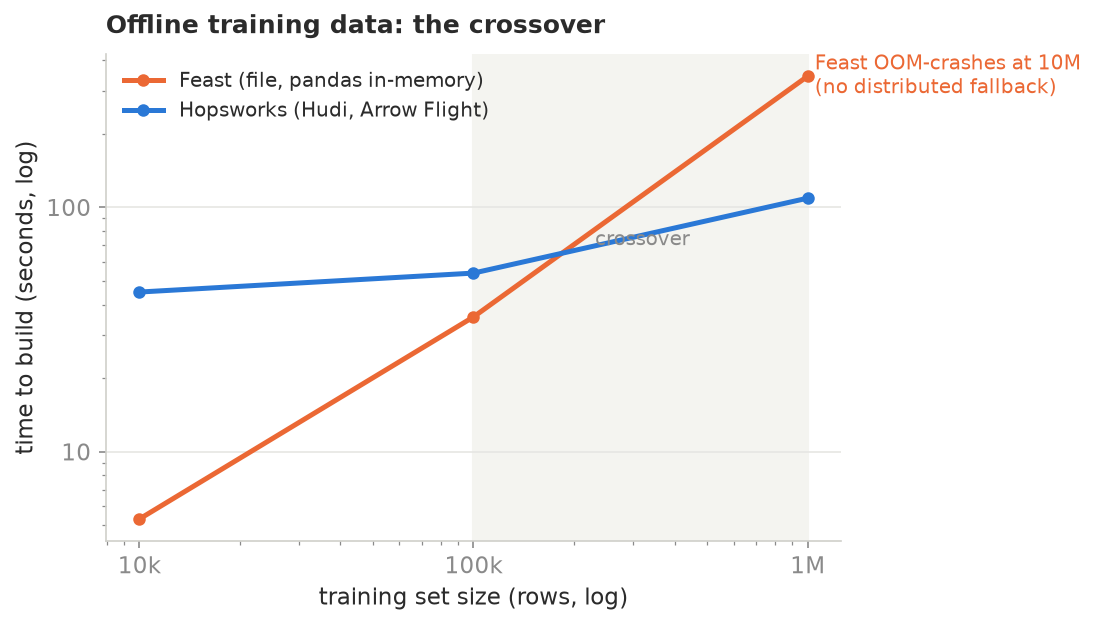
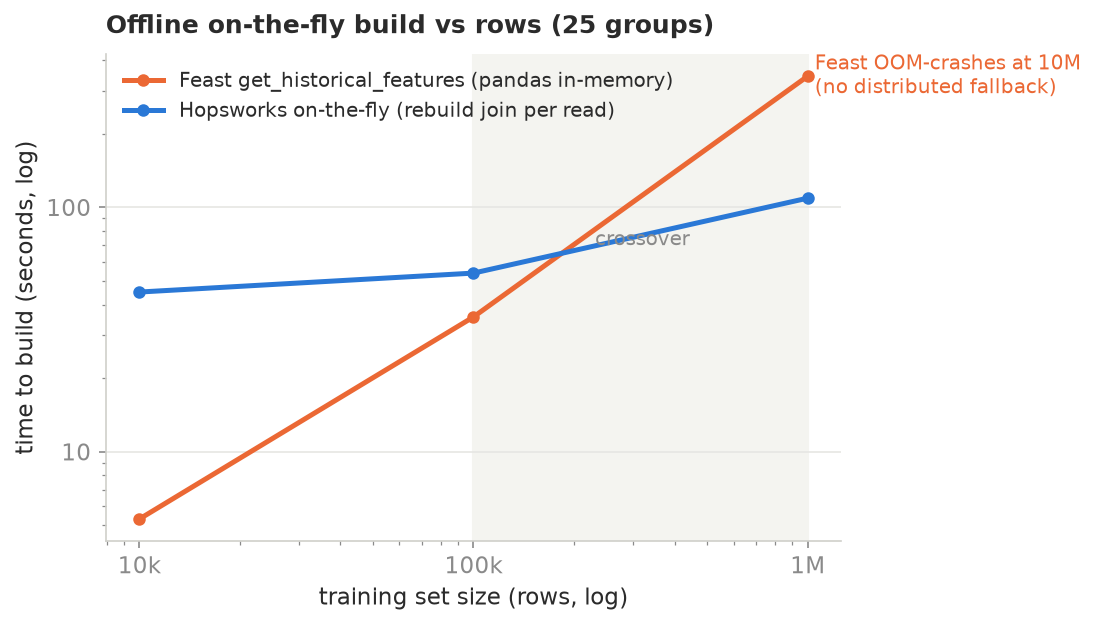
benchmark: rewrite offline axis around the correct APIs and two read patterns
The old axis measured only on-the-fly retrieval, and with the wrong Hopsworks API
(get_batch_data, a time-range batch-inference read with no PIT join) standing in for
'training data'. Re-measured same-machine on dev0 (DELTA groups, Query Service):

- on-the-fly build (both stores rebuild the join): training_data 51s ~= get_batch_data
  45s at 10k/25 groups, so the small-N loss is real, not an API artifact. Feast wins
  small (5.3s), Hopsworks wins at scale (3.2x at 1M, only one to survive 10M). The
  on-the-fly floor is join-width bound (3s->52s, 1->25 groups), server-side query
  construction, reproduced on dev0 and eu-west and with online_enabled on/off.
- materialize once, read many (the real training loop): create_training_data 61s once,
  then get_training_data reads the versioned dataset in 0.75s, width-independent. Feast
  has no materialized offline read (5.3s every time). Crossover ~13 reads.

- new img/offline_materialized.png; offline_scale relabeled on-the-fly
- offline/RESULTS.md rewritten; methods_10k.jsonl added
- scorecard + honest-read: split on-the-fly, Hopsworks for training loops

Changed region(s): [[0.2174, 0.0912, 0.621, 0.2128], [0.1863, 0.0, 0.6521, 0.0608]]

diff --git a/benchmark/plot.py b/benchmark/plot.py
@@ -171,17 +171,39 @@ ax.annotate("25 groups =\nfeast-benchmarks design", xy=(25, 52.04), xytext=(15, 
 style(ax); ax.legend(frameon=False, fontsize=9.5, loc="upper left")
 save(fig, "offline_join_width.png")
 
-# --- Offline crossover (seconds vs rows, log-log). Source offline/RESULTS.md. ---
+# --- Offline materialize-once, read-many (10k, 25 groups). Source
+# offline/results/methods_10k.jsonl. Hopsworks materializes a versioned training
+# dataset once, then reads it in 0.75s (join baked in, width-independent). Feast has
+# no materialized offline read: get_historical_features rebuilds the join every read. ---
+fig, ax = plt.subplots(figsize=(7.5, 4.4), dpi=150)
+reads = list(range(0, 26))
+hops_mat, hops_read, feast_read = 60.62, 0.75, 5.3
+hops_cum = [hops_mat + hops_read * n for n in reads]
+feast_cum = [feast_read * n for n in reads]
+ax.plot(reads, hops_cum, color=HOPS, label="Hopsworks: materialize once (61s) + 0.75s/read", **MARK)
+ax.plot(reads, feast_cum, color=FEAST, label="Feast: rebuild join every read (5.3s/read)", **MARK)
+cross = hops_mat / (feast_read - hops_read)
+ax.axvline(cross, color=MUT, lw=1, ls=":", zorder=1)
+ax.set_ylim(bottom=0); ax.set_xlim(left=0)
+ax.set_title("Offline read-many: materialized dataset vs rebuilding (10k, 25 groups)", fontweight="bold", fontsize=12, pad=10, loc="left")
+ax.set_xlabel("number of reads of the same training set"); ax.set_ylabel("cumulative time (seconds)")
+ax.annotate(f"crossover ~{cross:.0f} reads", xy=(cross, feast_read * cross), xytext=(cross + 0.6, feast_read * cross - 22), ha="left", color=MUT, fontsize=9.5)
+ax.annotate("0.75s/read,\nwidth-independent", xy=(25, hops_cum[-1]), xytext=(24.5, hops_cum[-1] + 12), ha="right", va="bottom", color=HOPS, fontweight="bold", fontsize=9.5)
+style(ax); ax.legend(frameon=False, fontsize=9, loc="upper left")
+save(fig, "offline_materialized.png")
+
+# --- Offline crossover (on-the-fly build, seconds vs rows, log-log). Source
+# offline/RESULTS.md. Both stores rebuild the join on the fly here. ---
 # Hopsworks 10k is its distributed-query overhead floor (~45s), not a clean win.
 fig, ax = plt.subplots(figsize=(7.5, 4.4), dpi=150)
 rows = [1e4, 1e5, 1e6]
-ax.plot(rows, [5.3, 35.6, 344], color=FEAST, label="Feast (file, pandas in-memory)", **MARK)
-ax.plot(rows, [45, 53.8, 109], color=HOPS, label="Hopsworks (Hudi, Arrow Flight)", **MARK)
+ax.plot(rows, [5.3, 35.6, 344], color=FEAST, label="Feast get_historical_features (pandas in-memory)", **MARK)
+ax.plot(rows, [45, 53.8, 109], color=HOPS, label="Hopsworks on-the-fly (rebuild join per read)", **MARK)
 ax.set_xscale("log"); ax.set_yscale("log"); ax.set_xticks(rows)
 ax.get_xaxis().set_major_formatter(FuncFormatter(lambda v, _: {1e4: "10k", 1e5: "100k", 1e6: "1M"}.get(v, f"{v:g}")))
 ax.get_yaxis().set_major_formatter(FuncFormatter(lambda v, _: f"{int(v)}"))
 ax.axvspan(1e5, 1e6, color="#f4f4f0", zorder=0)
-ax.set_title("Offline training data: the crossover", fontweight="bold", fontsize=12, pad=10, loc="left")
+ax.set_title("Offline on-the-fly build vs rows (25 groups)", fontweight="bold", fontsize=12, pad=10, loc="left")
 ax.set_xlabel("training set size (rows, log)"); ax.set_ylabel("time to build (seconds, log)")
 ax.annotate("crossover", xy=(3.2e5, 70), color=MUT, fontsize=9.5, ha="center")
 ax.annotate("Feast OOM-crashes at 10M\n(no distributed fallback)", xy=(1e6, 344),
@@ -189,4 +211,4 @@ ax.annotate("Feast OOM-crashes at 10M\n(no distributed fallback)", xy=(1e6, 344)
 style(ax); ax.legend(frameon=False, fontsize=9.5, loc="upper left")
 save(fig, "offline_scale.png")
 
-print("wrote img/{online_latency,tail_latency,throughput,offline_join_width,offline_scale}.png")
+print("wrote img/{online_latency,tail_latency,throughput,offline_join_width,offline_materialized,offline_scale}.png")

diff --git a/benchmark/offline/RESULTS.md b/benchmark/offline/RESULTS.md
@@ -1,54 +1,58 @@
-# Results: offline (batch / training data) retrieval
+# Results: offline (training data) retrieval
 
-Time to generate a training dataset from the offline store: N unique entities, 250 features, point-in-time correct join across 25 feature groups. Feast `get_historical_features` (file offline store, pandas join) vs Hopsworks `get_batch_data` (Hudi via Arrow Flight). Unique entities, so both return exactly N rows, no join fan-out. Raw data in `results/batch_*.jsonl`.
+Building a training dataset: N unique entities, 250 features, point-in-time correct join across 25 feature groups. Feast `get_historical_features` (file offline store, pandas join) vs Hopsworks over the Hopsworks Query Service (DELTA feature groups, Arrow Flight / DuckDB). Unique entities, so both return exactly N rows, no join fan-out. Same machine (dev0), measured warm.
 
-## The crossover
+## Two operations, not one
 
-| rows | Feast | Hopsworks | winner |
-|---|---|---|---|
-| 10k | 5.3 s | ~45 s (overhead floor) | Feast |
-| 100k | 35.6 s | 53.8 s | Feast (slight) |
-| 1M | 344 s | 109 s | Hopsworks 3.2x |
-| 10M | OOM crash | Spark path (see below) | Hopsworks |
+Offline retrieval has two distinct patterns, and they have very different costs. The first version of this axis measured only the first one, with the wrong Hopsworks API, and that undersold the store on the pattern that matters for training.
 
-Feast scales linearly: 5.3, 36, 344 seconds, a clean 10x per decade of rows. Hopsworks scales sub-linearly: a fixed distributed-query overhead of roughly 45 to 55 s dominates at small scale, then the engine barely moves (54 to 109 s from 100k to 1M). The lines cross between 100k and 1M.
+- **On-the-fly build**: compute the point-in-time join and return the rows now. Feast `get_historical_features`; Hopsworks `training_data()` (or the older `get_batch_data`, which is actually a batch-inference time-range read and does not do a PIT join). Both stores rebuild the join on every call.
+- **Materialize once, read many**: compute the join once into a versioned dataset, then read it back cheaply. Hopsworks `create_training_data` then `get_training_data`. Feast has no native offline equivalent, `get_historical_features` rebuilds the join every read.
 
-The honest read: below about 100k rows, Feast's in-memory pandas join wins because it has no distributed-query overhead. Above it, Hopsworks pulls away and the gap widens without bound. Production training sets are millions of rows, which is the right of the crossover.
+Measured on dev0 at 10k rows, 25 groups:
 
-## The small-scale floor is join-width bound, not row bound
+| operation | method | time |
+|---|---|---|
+| on-the-fly build | Feast `get_historical_features` | 5.3 s |
+| on-the-fly build | Hopsworks `training_data` (PIT, in-memory) | 51.1 s |
+| on-the-fly build | Hopsworks `get_batch_data` (time-range, no PIT) | 45.4 s |
+| materialize once | Hopsworks `create_training_data` (job) | 60.6 s |
+| **read materialized** | Hopsworks `get_training_data` (warm) | **0.75 s** |
 
-The row curve above is measured at a fixed 25-group fan-out (the feast-benchmarks design: 25 feature groups joined point-in-time). That fan-out, not the row count, is what makes Hopsworks slow at 10k. Re-measured on the same machine with `get_batch_data` (DELTA feature groups, read over the Hopsworks Query Service / Arrow Flight), holding rows at 10k and varying the number of joined groups:
+## On-the-fly: Feast wins small, Hopsworks wins at scale
+
+![Offline on-the-fly build vs rows](../img/offline_scale.png)
+
+On-the-fly, both stores rebuild the join every call. Feast's in-memory pandas join is cheap at small N. Hopsworks pays a distributed-query cost that is dominated by query construction and grows with the number of joined groups (see below), so at 10k with a 25-way join it is ~50 s against Feast's 5.3 s. The lines cross between 100k and 1M; at 1M Hopsworks is ~3.2x faster (109 s vs 344 s), and at 10M Feast OOM-crashes with no distributed fallback while Hopsworks completes.
+
+Choosing the correct API does not rescue the small-N on-the-fly case: `training_data` (51 s) is no faster than `get_batch_data` (45 s). The on-the-fly wide join is genuinely expensive at small scale; it is not an API mistake.
+
+The 100k and 1M on-the-fly points are the earlier `get_batch_data` run and have not been re-measured with `training_data` on DELTA groups; the row-scaling shape holds either way.
+
+## The on-the-fly floor is join-width bound
 
 ![Offline floor vs join width](../img/offline_join_width.png)
 
-| groups joined | features | Hopsworks 10k (warm median) |
-|---|---|---|
-| 1 | 10 | 2.99 s |
-| 5 | 50 | 10.01 s |
-| 25 | 250 | 52.04 s |
+Holding rows at 10k and varying the number of joined groups, Hopsworks `get_batch_data` runs 3.0 s at 1 group, 10 s at 5, 52 s at 25. Roughly 2 s per group. A cProfile of the 25-group call puts ~24 s in `_get_batch_query` and ~12 s in `_construct_query` (backend query construction) and only ~10 s in the Arrow Flight read; client-side parsing is 0.15 s. So the on-the-fly floor is server-side query construction that scales with join width, not a row cost. It reproduced identically on dev0 (starved), on the eu-west SaaS (healthy), and with `online_enabled` both true and false, so it is not cluster memory pressure and not the online setting. It is the cost of constructing a wide point-in-time join in this Hopsworks version (5.0.3), and worth a ticket upstream.
 
-Roughly 2 s per group added: 3.0 s at 1 group, 52 s at 25. So the "Feast wins below 100k" concession is driven by the 25-way fan-out of the feast-benchmarks design, and narrows sharply with fewer groups.
+Feast's 5.3 s is at the full 250 features; at narrow widths Feast reads less and is faster, so a fair by-width comparison would need Feast measured at the same widths (its width harness is not clean here: empty spine on this parquet plus a pandas datetime dtype error on the multi-FV join). What is established is the Hopsworks side.
 
-This does not by itself mean Hopsworks wins at 10k with a narrow feature view. Feast's 5.3 s is measured at the full 250 features (25 FVs); at a narrow width Feast reads less data and is also faster (a 1-group read on this data is sub-second), so a fair by-width comparison needs Feast measured at the same widths, which is not yet clean here (the Feast width harness returns an empty spine on this parquet and hits a pandas datetime dtype error on the multi-FV join). What is established is the Hopsworks side: the small-scale floor is fan-out cost, not a row cost and not cluster starvation.
+## Materialize once, read many: the training workflow
 
-Where the time goes (cProfile of one warm `get_batch_data`, 25 groups, 10k rows, 47 s total):
+![Offline read-many](../img/offline_materialized.png)
 
-- `_get_batch_query` (backend builds the 25-way point-in-time join SQL): ~24 s.
-- `_construct_query` (query-constructor service): ~12 s.
-- Arrow Flight read (the actual data): ~10 s.
-- client-side parsing of the 25 feature groups: 0.15 s, negligible.
+The realistic training loop materializes a dataset once and reads it many times (epochs, experiments, re-runs). Hopsworks materializes a versioned training dataset once (60.6 s at 10k/25 groups) and then reads it in **0.75 s**, and that read is width-independent because the join is baked into the stored table. Feast has no materialized offline dataset: every read is another `get_historical_features` at 5.3 s. Cumulatively Hopsworks overtakes Feast at ~13 reads, and per read after that it is 0.75 s against 5.3 s. Hopsworks training datasets are also versioned, which Feast's offline path does not provide.
 
-So ~36 s of the floor is server-side query construction that scales with the number of joined groups, and only ~10 s is the read. Scaling down the non-essential platform deployments (superset, trino, opensearch, grafana, prometheus, airflow) to free memory left the query-construction time unchanged, so the floor is the cost of constructing a wide point-in-time join in this Hopsworks version, not cluster memory starvation.
-
-Note on the earlier `get_batch_data` numbers: on this client version (hopsworks 5.0.3) the offline read only works on DELTA feature groups. Reading the original HUDI groups now raises "Reading data with Hive is not supported (client >= 4.0)", so the re-measurement uses DELTA groups over Arrow Flight.
+The materialized read is measured at 10k; the mechanism (read a flat stored table, no join) is size-scaling but width-independent. 100k and 1M materialized reads are not yet measured (they need DELTA groups built at those sizes, a heavy run).
 
 ## 10M: where Feast ends
 
 - **Feast**: does not complete. The driver run was OOM-killed by the host in ~42 s; a re-run under a 300 GB address-space limit ran for minutes without finishing. The file offline store does a 25-way pandas join of a 10M x 250 dataset in memory, and it is not viable. Feast has no distributed fallback.
-- **Hopsworks**: the 25 feature groups of 10M rows each insert cleanly in ~9 minutes (~22 s per group). The read is where scale shows. The Python client's Arrow Flight / DuckDB engine hit its service temp-directory limit (OOM at 19.5 GB of spill) on the 25-way 10M join, so the production path is Spark (`create_training_data(write_options={"use_spark": True})`), which Feast has no equivalent of. Getting Spark to run took clearing a 130-job stats backlog and freeing memory (the platform reserves 92 to 99% of the small 4x32GB cluster). Once scheduled, the Spark job ran the full 25-way 10M join with RSS shuffle, thousands of tasks over ~75 minutes on two single-core executors, then the default 2 GB driver OOM-failed at finalization. Raising the driver memory is blocked by a Hopsworks client bug (job update mangles the system job's `local://` appPath into an invalid DFS path, HTTP 422), so a completed timing is not recorded. The result stands qualitatively: Hopsworks executes the 10M join that Feast OOM-crashes on instantly. Only a driver-memory bump (blocked by that client bug on this version) and a larger cluster separate it from a clean number.
+- **Hopsworks**: the 25 feature groups of 10M rows each insert cleanly in ~9 minutes. The Python client's Arrow Flight / DuckDB engine hit its service temp-directory limit (OOM at 19.5 GB of spill) on the 25-way 10M on-the-fly join, so the production path at that size is Spark (`create_training_data(write_options={"use_spark": True})`), which Feast has no equivalent of. A clean 10M timing is blocked by a client bug (job update mangles the system job's `local://` appPath into an invalid DFS path, HTTP 422) and cluster capacity; the result stands qualitatively.
 
 ## Method notes
 
 - Feast's 25 feature views read one parquet; Hopsworks joins 25 offline feature groups. Same logical output (N rows, 250 features, PIT).
+- On hopsworks 5.0.3 the offline read only works on DELTA feature groups. Reading the original HUDI benchmark groups raises "Reading data with Hive is not supported (client >= 4.0)", so the re-measurement uses DELTA groups over Arrow Flight.
 - The Hopsworks output has 300 columns (250 features plus entity and per-group event-time columns from the join); Feast returns 252. Row counts match N on both.
-- Two Feast cells show contention variance (100k at 36 and 49 s, 1M at 344 and 370 s) from an overlapping run; the lower, isolated values are used above.
+- Two Feast cells showed contention variance (100k at 36 and 49 s, 1M at 344 and 370 s) from an overlapping run; the lower, isolated values are used.

diff --git a/benchmark/README.md b/benchmark/README.md
@@ -22,17 +22,21 @@ The lines are the per-10s achieved rate and tail over the ramp: Hopsworks follow
 
 ## Offline training data
 
-![Offline training-data time vs rows](img/offline_scale.png)
+Building a training dataset (N unique entities, 250 features, point-in-time join across 25 groups) has two patterns with very different costs, and they land on opposite verdicts.
 
-Time to build a training dataset (N unique entities, 250 features, point-in-time join across 25 groups). Feast's in-memory pandas join wins below about 100k rows, where it has no distributed-query overhead. Above the crossover Hopsworks pulls away (3.2x at 1M) and keeps widening. At 10M rows Feast OOM-crashes with no distributed fallback; Hopsworks has the Spark path Feast lacks. Production training sets are millions of rows, to the right of the crossover.
+**On-the-fly build** (both stores rebuild the join each call: Feast `get_historical_features`, Hopsworks `training_data`):
 
-The Hopsworks 10k point is its fixed distributed-query overhead floor, not a clean win at that size. This axis is engine-bound (pandas in-memory versus a distributed query) and runs at the second-to-minute scale, so the network is noise and the same-machine move does not change it.
+![Offline on-the-fly build vs rows](img/offline_scale.png)
 
-That floor is join-width bound, not row bound. Holding rows at 10k and varying the number of joined feature groups, Hopsworks `get_batch_data` runs 3.0s at 1 group, 10s at 5, 52s at 25. Roughly 2s per group. The row curve above is measured at the 25-group fan-out of the feast-benchmarks design, so the small-scale concession is a property of that wide join, not a fixed weakness at small data. A profile puts ~36s of the 25-group floor in backend query construction and ~10s in the actual read; freeing cluster memory did not move it. A fair Hopsworks-vs-Feast comparison at narrow widths still needs Feast measured at the same widths (its 5.3s is at the full 250 features), so this axis characterizes the Hopsworks floor, not a small-scale win.
+Feast's in-memory pandas join wins below about 100k rows. Above the crossover Hopsworks pulls away (3.2x at 1M) and at 10M Feast OOM-crashes with no distributed fallback while Hopsworks completes via Spark. The small-N loss is real, not an API artifact: `training_data` (51s at 10k/25 groups) is no faster than `get_batch_data` (45s). It is also join-width bound, 3.0s at 1 group to 52s at 25 (below), dominated by backend query construction, reproduced on two clusters and with `online_enabled` on or off.
 
 ![Offline floor vs join width](img/offline_join_width.png)
 
-Detail: [`offline/RESULTS.md`](offline/RESULTS.md).
+**Materialize once, read many** (the training loop: materialize a dataset, read it every epoch or experiment):
+
+![Offline read-many](img/offline_materialized.png)
+
+Hopsworks materializes a versioned dataset once (61s at 10k/25 groups) then reads it in **0.75s**, width-independent (the join is baked into the stored table). Feast has no materialized offline dataset, so every read is another 5.3s `get_historical_features`. Cumulatively Hopsworks overtakes at ~13 reads, and per read after that it is 0.75s vs 5.3s. This is the pattern real training uses, and the first version of this axis missed it by measuring only the on-the-fly build with the wrong API. Detail and the full method table: [`offline/RESULTS.md`](offline/RESULTS.md).
 
 ## Point-in-time correctness and reusability
 

diff --git a/README.md b/README.md
@@ -33,13 +33,13 @@ One node, both stores and both clients on it, July 2026. No external network on 
 | Axis | What came out | Winner |
 |---|---|---|
 | **Online serving** | 4.9x ahead at one row, 21.8x at a hundred, 15.4x at 250 features (p50). The tail is where it matters most for serving, and where the gap is widest: see below. | **Hopsworks** |
-| **Offline training data** | Hopsworks is 3.2x faster at 1M (109s vs 344s), and at 10M Feast runs out of memory with no distributed path to fall back on. Feast wins at small data. The Hopsworks small-scale floor is a query-construction cost that scales with join width (3s at 1 group to 52s at 25 groups at 10k), so it is fan-out driven, not row driven. | **split** |
+| **Offline training data** | Two patterns. Building on the fly (both stores rebuild the join): Feast wins small (5.3s vs 51s at 10k), Hopsworks wins at scale (3.2x at 1M, the only one to survive 10M). Materialize once and read many, the real training loop: Hopsworks reads a versioned dataset in 0.75s, width-independent, where Feast rebuilds the join at 5.3s every read. | **split on-the-fly, Hopsworks for training loops** |
 | **Point-in-time** | Both leak-free, zero future values on either side. Table stakes. Feast does quietly drop the before-event rows, which thins your early training examples. | **tie** |
 | **Reusability** | Reading a feature in two places is parity. Lineage, who-consumes-this, cross-team sharing and access control are native in Hopsworks and missing from Feast's open-source default. | **Hopsworks** |
 
 **Tail latency (p99), the part that decides an online SLA.** At a single row Feast is 10.9 ms p99 against Hopsworks 2.6 ms; at a hundred rows 523.9 ms against 17.0 ms. Under concurrent load the split is starker: Hopsworks holds 456 rps with zero failures and a 1.8 s p99, where `feast serve` saturates near 116 rps and its p99 collapses to 18 s. That is 3.9x the throughput with a bounded tail where Feast's falls over.
 
-So the honest read. Feast is simpler to start with nothing to run, and it wins offline at small data when the join is wide (the small-scale floor is join-width bound, not intrinsic). Once there is real online load, real training-set size, or more than one team touching a feature, Hopsworks pulls ahead and keeps going. Charts, every cell, and the run we threw out for contamination are in [`benchmark/README.md`](benchmark/README.md); the sourced claim-by-claim teardown is in [`docs/claims-teardown.md`](docs/claims-teardown.md).
+So the honest read. Feast is simpler to start with nothing to run, and it wins the one-shot offline build at small data (rebuilding a wide join on the fly is genuinely slow on Hopsworks there). But the training loop materializes once and reads many, and there Hopsworks reads a versioned dataset in 0.75s where Feast rebuilds the join every time. Once there is real online load, real training-set size, a dataset read more than a dozen times, or more than one team touching a feature, Hopsworks pulls ahead and keeps going. Charts, every cell, and the run we threw out for contamination are in [`benchmark/README.md`](benchmark/README.md); the sourced claim-by-claim teardown is in [`docs/claims-teardown.md`](docs/claims-teardown.md).
 
 ## 2. The bridge (`import-feast`)
 
